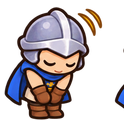
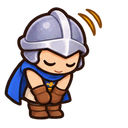
ごめんスタンプの絵に混ざっていた隣のコマの切れ端を消す
Claude-Session: https://claude.ai/code/session_01NLXjHLyRGEz7DVNqP1Hqeb

Changed region(s): [[0.875, 0.6562, 0.9688, 0.8438], [0.9375, 0.375, 0.9688, 0.4062]]

diff --git a/js/ui/precache.js b/js/ui/precache.js
@@ -1,2 +1,2 @@
-self.CF_CACHE_VERSION="3b926985f3f92e95";
+self.CF_CACHE_VERSION="f8e80a814eb0e3ff";
 self.CF_ASSETS=["index.html","manifest.webmanifest","css/accessibility.css","css/battle.css","css/beast.css","css/card-base.css","css/chat.css","css/components.css","css/deck.css","css/experience.css","css/finishing-art.css","css/help-guide.css","css/hologram.css","css/kingdom.css","css/layout.css","css/mana-growth.css","css/materials.css","css/motion.css","css/mp.css","css/polish.css","css/rarity-assets.css","css/rarity-fx.css","css/settings.css","css/step5.css","css/style.css","css/text-fit.css","css/theme.css","css/tokens.css","css/tutorial.css","css/weather.css","js/game/Card.js","js/game/Castle.js","js/game/Game.js","js/game/Monster.js","js/game/Player.js","js/game/Road.js","js/game/Setup.js","js/game/Soldier.js","js/game/Weather.js","js/game/strategies.js","js/game/visibility.js","js/main.js","js/ui/Accessibility.js","js/ui/Animations.js","js/ui/BattleLayout.js","js/ui/CardGuide.js","js/ui/CardInfo.js","js/ui/ChatView.js","js/ui/DebugPanel.js","js/ui/DeckEditor.js","js/ui/DeckPreview.js","js/ui/DeckStore.js","js/ui/HandView.js","js/ui/HelpView.js","js/ui/Hologram.js","js/ui/LocalSetup.js","js/ui/MatchStats.js","js/ui/MaterialSkin.js","js/ui/Music.js","js/ui/OnlineClient.js","js/ui/ProgressPanel.js","js/ui/Renderer.js","js/ui/RoomView.js","js/ui/Session.js","js/ui/Settings.js","js/ui/Sound.js","js/ui/Targeting.js","js/ui/Tutorial.js","js/ui/UpgradePanel.js","js/ui/WeatherView.js","js/ui/art.js","js/ui/cardFrame.js","js/ui/cardView.js","js/ui/config.js","js/ui/handOrder.js","js/ui/look.js","js/ui/motion.js","js/ui/pills.js","js/ui/rarity.js","js/ui/syncCheck.js","js/ui/text.js","data/cards.json","data/castles.json","data/decks.json","data/monsters.json","data/rarities.json","data/rules.json","data/stamps.json","data/upgrades.json","data/weather.json","assets/asset-manifest.json","assets/bg/board-meadow-compact.png","assets/bg/board-meadow.png","assets/bg/board.png","assets/bg/kingdom-meadow.png","assets/bg/kingdom-valley.png","assets/bg/title-compact.png","assets/bg/title.png","assets/cards/card-absolute-zero.png","assets/cards/card-adapt.png","assets/cards/card-apocalypse.png","assets/cards/card-apprentice-archer.png","assets/cards/card-apprentice-mage.png","assets/cards/card-archer.png","assets/cards/card-archmage.png","assets/cards/card-barrier.png","assets/cards/card-beast-bat.png","assets/cards/card-beast-demon-king.png","assets/cards/card-beast-demon.png","assets/cards/card-beast-dragon.png","assets/cards/card-beast-ghost.png","assets/cards/card-beast-goblin.png","assets/cards/card-beast-golem.png","assets/cards/card-beast-mimic.png","assets/cards/card-beast-skeleton.png","assets/cards/card-beast-slime.png","assets/cards/card-beast-treant.png","assets/cards/card-beast-vampire.png","assets/cards/card-big-shield.png","assets/cards/card-big-thunder.png","assets/cards/card-blessing.png","assets/cards/card-bolt.png","assets/cards/card-cavalry.png","assets/cards/card-coin-pouch.png","assets/cards/card-death-mist.png","assets/cards/card-decoy.png","assets/cards/card-deep-freeze.png","assets/cards/card-dragon-knight.png","assets/cards/card-earth-hammer.png","assets/cards/card-earth-king.png","assets/cards/card-earth-spirit.png","assets/cards/card-fire-king.png","assets/cards/card-fire-spirit.png","assets/cards/card-fireball.png","assets/cards/card-flame-sword.png","assets/cards/card-frost-breath.png","assets/cards/card-frozen-world.png","assets/cards/card-gate.png","assets/cards/card-giant.png","assets/cards/card-glacier.png","assets/cards/card-god-shield.png","assets/cards/card-god-sword.png","assets/cards/card-goddess.png","assets/cards/card-gold-coin.png","assets/cards/card-gold-vein.png","assets/cards/card-great-earth-spirit.png","assets/cards/card-great-fire-spirit.png","assets/cards/card-great-heal.png","assets/cards/card-great-water-spirit.png","assets/cards/card-great-wind-spirit.png","assets/cards/card-heal.png","assets/cards/card-heavy.png","assets/cards/card-hero.png","assets/cards/card-holy-light.png","assets/cards/card-holy-shield.png","assets/cards/card-holy-sword.png","assets/cards/card-infantry.png","assets/cards/card-inferno.png","assets/cards/card-iron-sword.png","assets/cards/card-judgment.png","assets/cards/card-king-treasure.png","assets/cards/card-knight.png","assets/cards/card-longbowman.png","assets/cards/card-mage.png","assets/cards/card-magic-sword.png","assets/cards/card-mana-crystal.png","assets/cards/card-mana-drop.png","assets/cards/card-mana-shard.png","assets/cards/card-mana-spring.png","assets/cards/card-meteor.png","assets/cards/card-minor-heal.png","assets/cards/card-paladin.png","assets/cards/card-plague.png","assets/cards/card-poison-mist.png","assets/cards/card-prayer.png","assets/cards/card-raijin.png","assets/cards/card-reflect.png","assets/cards/card-sage.png","assets/cards/card-sandbag.png","assets/cards/card-scout.png","assets/cards/card-shield.png","assets/cards/card-sky-archer.png","assets/cards/card-sniper.png","assets/cards/card-sorcerer.png","assets/cards/card-spearman.png","assets/cards/card-starfall.png","assets/cards/card-steel-shield.png","assets/cards/card-stone-wall.png","assets/cards/card-thief.png","assets/cards/card-thunder.png","assets/cards/card-toxic-rain.png","assets/cards/card-treasure.png","assets/cards/card-venom.png","assets/cards/card-wall.png","assets/cards/card-water-king.png","assets/cards/card-water-spear.png","assets/cards/card-water-spirit.png","assets/cards/card-weather-call.png","assets/cards/card-wind-bow.png","assets/cards/card-wind-king.png","assets/cards/card-wind-spirit.png","assets/cards/card-world-tree-dew.png","assets/cards/frame-beast.png","assets/cards/frame-common.png","assets/cards/frame-defense.png","assets/cards/frame-epic.png","assets/cards/frame-legendary.png","assets/cards/frame-rare.png","assets/cards/frame-soldier.png","assets/cards/frame-special.png","assets/cards/frame-spell.png","assets/cards/frame-uncommon.png","assets/cards/frame-weapon.png","assets/castles/barracks-blue-damaged-1.png","assets/castles/barracks-blue-damaged-2.png","assets/castles/barracks-blue-damaged-3.png","assets/castles/barracks-blue.png","assets/castles/barracks-orange-damaged-1.png","assets/castles/barracks-orange-damaged-2.png","assets/castles/barracks-orange-damaged-3.png","assets/castles/barracks-orange.png","assets/castles/castle-blue-damaged-1.png","assets/castles/castle-blue-damaged-2.png","assets/castles/castle-blue-damaged-3.png","assets/castles/castle-blue-ruined.png","assets/castles/castle-blue.png","assets/castles/castle-orange-damaged-1.png","assets/castles/castle-orange-damaged-2.png","assets/castles/castle-orange-damaged-3.png","assets/castles/castle-orange-ruined.png","assets/castles/castle-orange.png","assets/castles/fortress-blue-damaged-1.png","assets/castles/fortress-blue-damaged-2.png","assets/castles/fortress-blue-damaged-3.png","assets/castles/fortress-blue.png","assets/castles/fortress-orange-damaged-1.png","assets/castles/fortress-orange-damaged-2.png","assets/castles/fortress-orange-damaged-3.png","assets/castles/fortress-orange.png","assets/castles/tower-blue-damaged-1.png","assets/castles/tower-blue-damaged-2.png","assets/castles/tower-blue-damaged-3.png","assets/castles/tower-blue.png","assets/castles/tower-orange-damaged-1.png","assets/castles/tower-orange-damaged-2.png","assets/castles/tower-orange-damaged-3.png","assets/castles/tower-orange.png","assets/fx/dust.png","assets/fx/evolve-1.png","assets/fx/evolve-2.png","assets/fx/evolve-3.png","assets/fx/explosion.png","assets/fx/fireball.png","assets/fx/fusion.png","assets/fx/heal.png","assets/fx/ice.png","assets/fx/lightning.png","assets/fx/lucky-reward.png","assets/fx/poison.png","assets/ui/app-icon-192.png","assets/ui/app-icon-512.png","assets/ui/banner-win.png","assets/ui/btn-blue.png","assets/ui/btn-cream.png","assets/ui/btn-green.png","assets/ui/btn-orange.png","assets/ui/btn-red.png","assets/ui/btn-round.png","assets/ui/button-end-turn.png","assets/ui/card-back.png","assets/ui/icon-coin.png","assets/ui/icon-earth.png","assets/ui/icon-fire.png","assets/ui/icon-heart.png","assets/ui/icon-help.png","assets/ui/icon-kind-defense.png","assets/ui/icon-kind-soldier.png","assets/ui/icon-kind-spell.png","assets/ui/icon-kind-weapon.png","assets/ui/icon-kind-wild.png","assets/ui/icon-luck.png","assets/ui/icon-mode-local.png","assets/ui/icon-mode-online.png","assets/ui/icon-mode-solo.png","assets/ui/icon-mp.png","assets/ui/icon-rarity-common.png","assets/ui/icon-rarity-epic.png","assets/ui/icon-rarity-legendary.png","assets/ui/icon-rarity-rare.png","assets/ui/icon-rarity-special.png","assets/ui/icon-rarity-uncommon.png","assets/ui/icon-water.png","assets/ui/icon-wind.png","assets/ui/kingdom-crest.png","assets/ui/kingdom-parchment.png","assets/ui/kingdom-platform.png","assets/ui/kingdom-primary.png","assets/ui/kingdom-secondary.png","assets/ui/kingdom-wood.png","assets/ui/logo.png","assets/ui/natural/danger-40-left.png","assets/ui/natural/danger-40-middle.png","assets/ui/natural/danger-40-right.png","assets/ui/natural/danger-44-left.png","assets/ui/natural/danger-44-middle.png","assets/ui/natural/danger-44-right.png","assets/ui/natural/danger-72-left.png","assets/ui/natural/danger-72-middle.png","assets/ui/natural/danger-72-right.png","assets/ui/natural/frame.png","assets/ui/natural/leather-tile.png","assets/ui/natural/neutral-40-left.png","assets/ui/natural/neutral-40-middle.png","assets/ui/natural/neutral-40-right.png","assets/ui/natural/neutral-44-left.png","assets/ui/natural/neutral-44-middle.png","assets/ui/natural/neutral-44-right.png","assets/ui/natural/neutral-72-left.png","assets/ui/natural/neutral-72-middle.png","assets/ui/natural/neutral-72-right.png","assets/ui/natural/neutral-wide-full.png","assets/ui/natural/oak-tile.png","assets/ui/natural/paper-tile.png","assets/ui/natural/primary-40-left.png","assets/ui/natural/primary-40-middle.png","assets/ui/natural/primary-40-right.png","assets/ui/natural/primary-44-left.png","assets/ui/natural/primary-44-middle.png","assets/ui/natural/primary-44-right.png","assets/ui/natural/primary-72-left.png","assets/ui/natural/primary-72-middle.png","assets/ui/natural/primary-72-right.png","assets/ui/natural/primary-wide-full.png","assets/ui/natural/round-neutral.png","assets/ui/natural/round-selected.png","assets/ui/natural/selected-40-left.png","assets/ui/natural/selected-40-middle.png","assets/ui/natural/selected-40-right.png","assets/ui/natural/selected-44-left.png","assets/ui/natural/selected-44-middle.png","assets/ui/natural/selected-44-right.png","assets/ui/natural/selected-72-left.png","assets/ui/natural/selected-72-middle.png","assets/ui/natural/selected-72-right.png","assets/ui/panel-parchment.png","assets/ui/result-defeat.png","assets/ui/result-victory.png","assets/ui/sign-hp.png","assets/ui/stamps/again.png","assets/ui/stamps/gg.png","assets/ui/stamps/go.png","assets/ui/stamps/hello.png","assets/ui/stamps/nice.png","assets/ui/stamps/ouch.png","assets/ui/stamps/scared.png","assets/ui/stamps/smug.png","assets/ui/stamps/sorry.png","assets/ui/stamps/thanks.png","assets/ui/stamps/think.png","assets/ui/stamps/yay.png","assets/ui/tap-plate.png","assets/ui/title-castle-blue.png","assets/ui/title-castle-orange.png","assets/ui/title-infantry-orange.png","assets/ui/title-knight-blue.png","assets/ui/weather-coin-rain.png","assets/ui/weather-fog.png","assets/ui/weather-heavy-rain.png","assets/ui/weather-rain.png","assets/ui/weather-sandstorm.png","assets/ui/weather-storm.png","assets/ui/weather-sunny.png","assets/units/apprentice-archer-blue.png","assets/units/apprentice-archer-orange.png","assets/units/apprentice-mage-blue.png","assets/units/apprentice-mage-orange.png","assets/units/archer-blue.png","assets/units/archer-orange.png","assets/units/archmage-blue.png","assets/units/archmage-orange.png","assets/units/cavalry-blue.png","assets/units/cavalry-orange.png","assets/units/dragon-knight-blue.png","assets/units/dragon-knight-orange.png","assets/units/earth-spirit.png","assets/units/fire-spirit.png","assets/units/giant-blue.png","assets/units/giant-orange.png","assets/units/great-earth-spirit.png","assets/units/great-fire-spirit.png","assets/units/great-water-spirit.png","assets/units/great-wind-spirit.png","assets/units/heavy-blue.png","assets/units/heavy-orange.png","assets/units/hero-blue.png","assets/units/hero-orange.png","assets/units/infantry-blue.png","assets/units/infantry-orange.png","assets/units/knight-blue.png","assets/units/knight-orange.png","assets/units/longbowman-blue.png","assets/units/longbowman-orange.png","assets/units/mage-blue.png","assets/units/mage-orange.png","assets/units/monster-bat.png","assets/units/monster-demon-king.png","assets/units/monster-demon.png","assets/units/monster-dragon.png","assets/units/monster-ghost.png","assets/units/monster-goblin.png","assets/units/monster-golem.png","assets/units/monster-mimic.png","assets/units/monster-skeleton.png","assets/units/monster-slime.png","assets/units/monster-treant.png","assets/units/monster-vampire.png","assets/units/paladin-blue.png","assets/units/paladin-orange.png","assets/units/sage-blue.png","assets/units/sage-orange.png","assets/units/scout-blue.png","assets/units/scout-orange.png","assets/units/sky-archer-blue.png","assets/units/sky-archer-orange.png","assets/units/sniper-blue.png","assets/units/sniper-orange.png","assets/units/sorcerer-blue.png","assets/units/sorcerer-orange.png","assets/units/spearman-blue.png","assets/units/spearman-orange.png","assets/units/water-spirit.png","assets/units/wind-spirit.png"];
